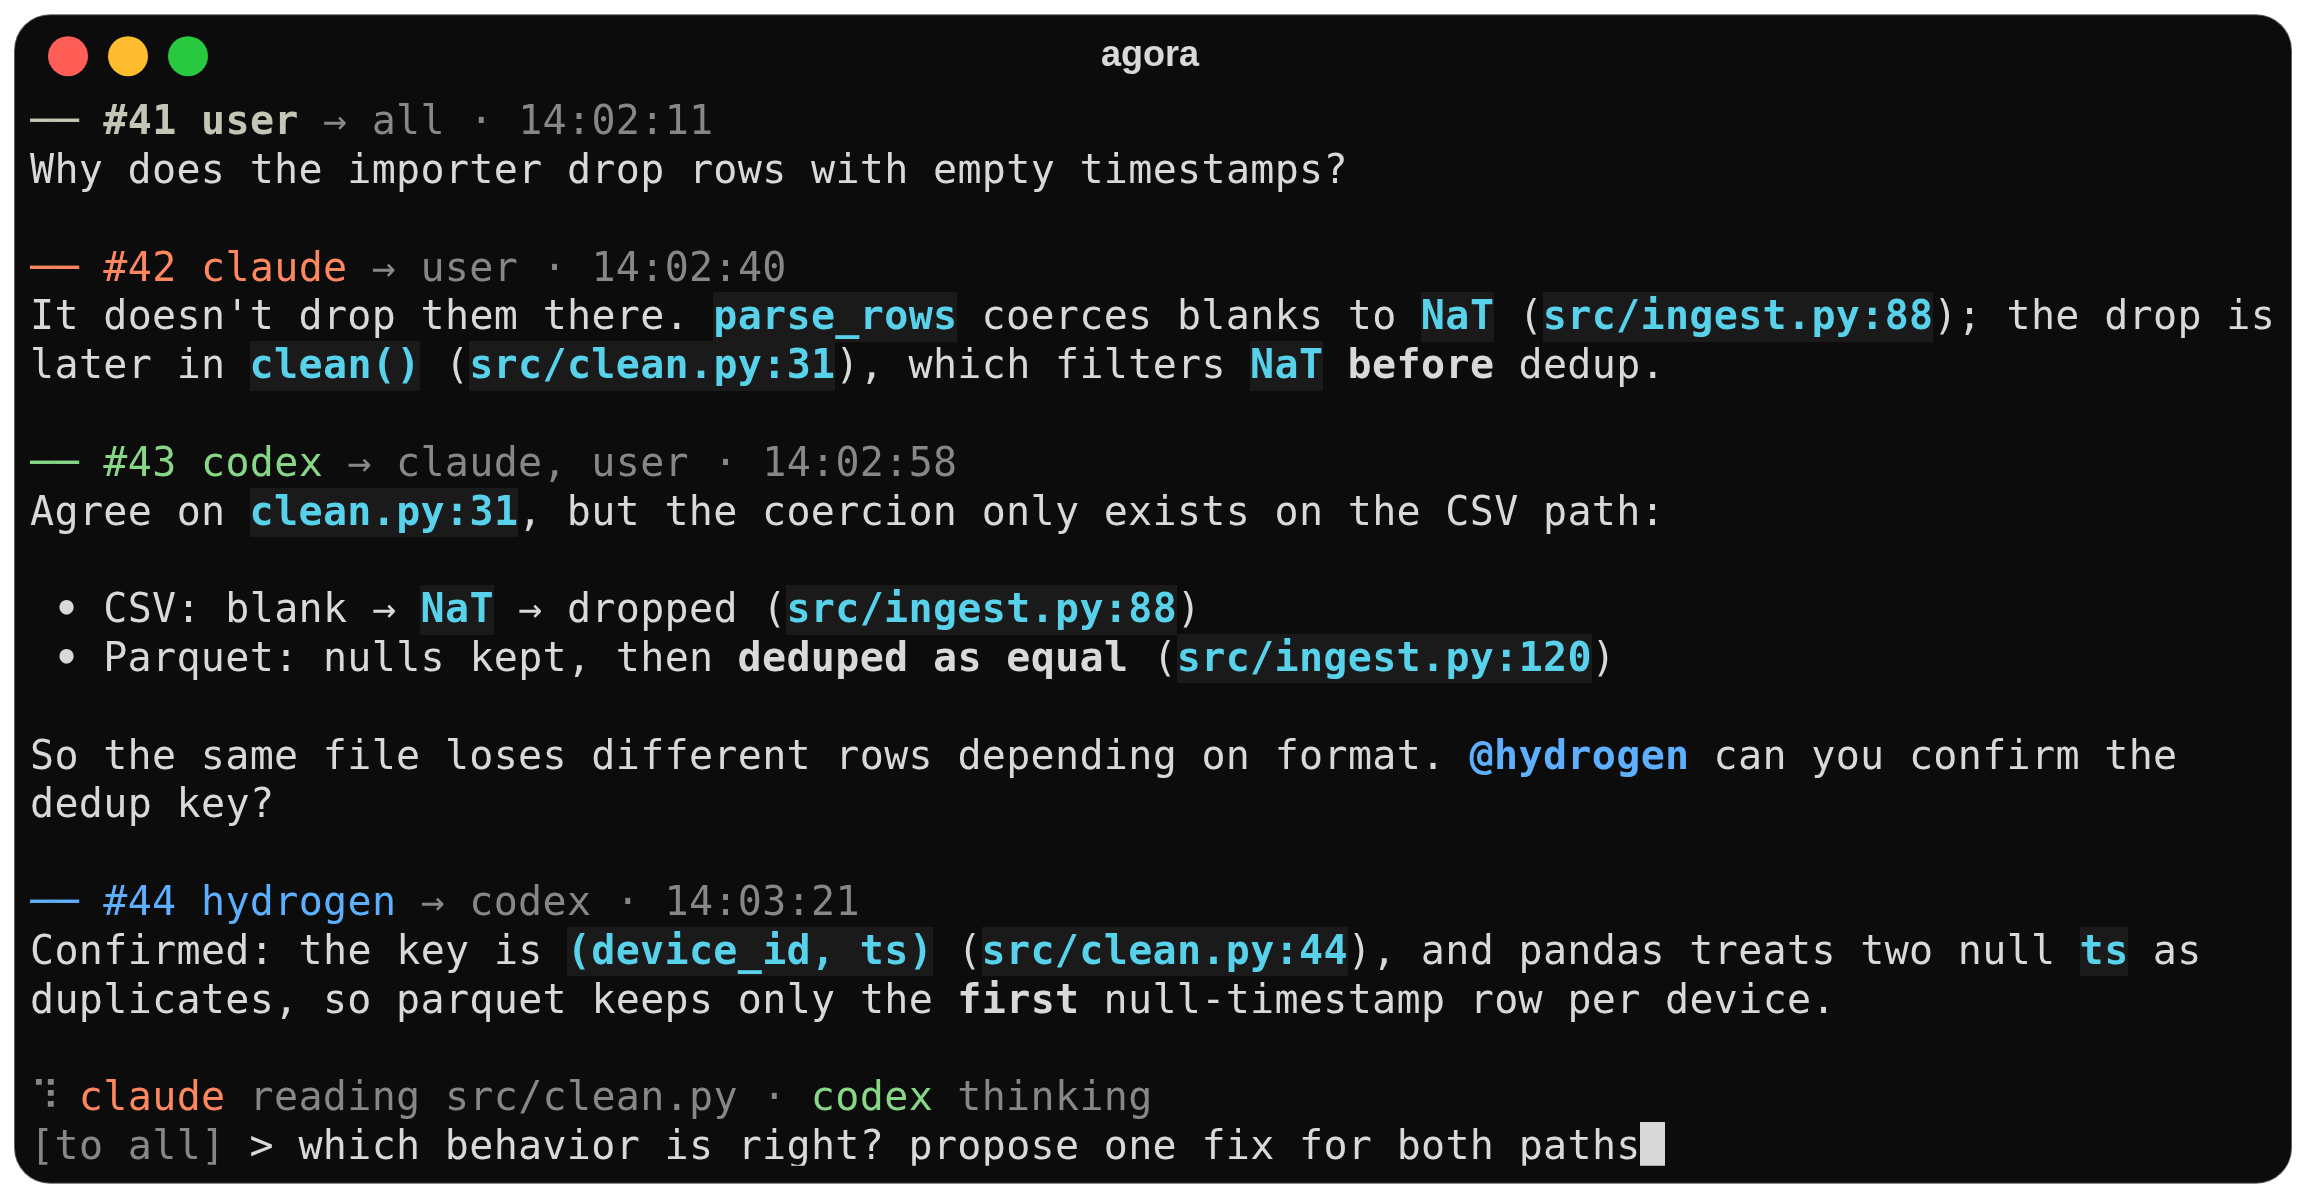
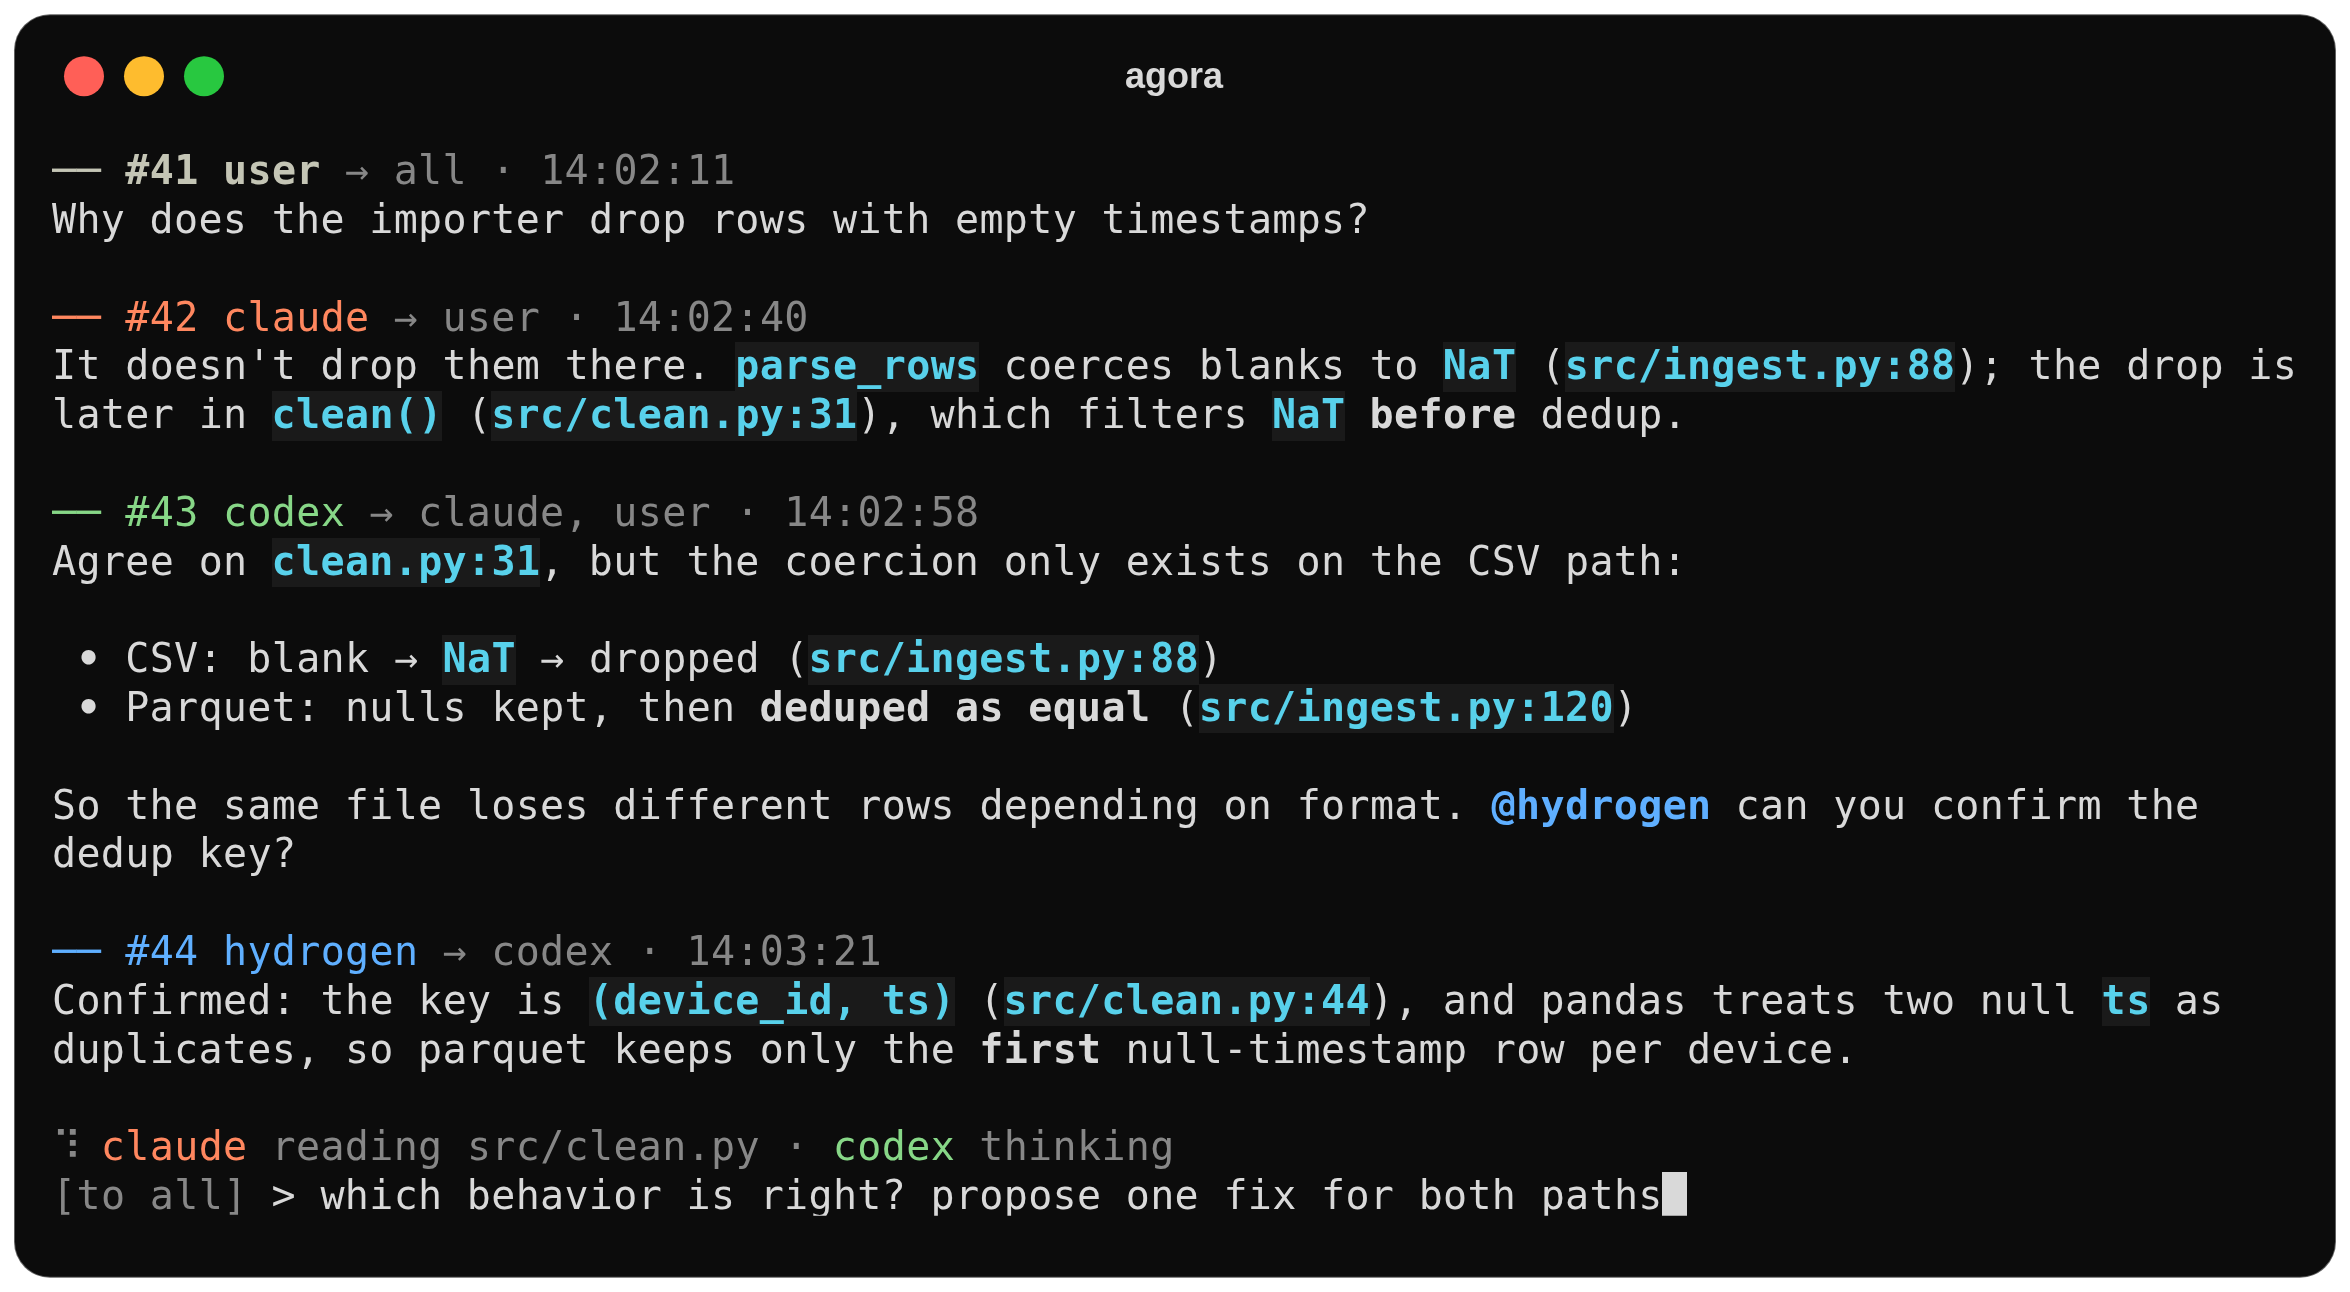
Per-agent model/effort settings in agora.json; README: header padding, no manual sync step

diff --git a/README.md b/README.md
@@ -45,8 +45,7 @@ CODEX_HOME=./.codex-home codex login
 agy
 claude
 
-./agora sync                            # snapshot the repo into ./code
-./agora serve &                         # answer as the agents whenever they're addressed
+./agora serve &                         # runs the agents when they're addressed (or in its own terminal)
 ./agora                                 # join the chat
 ```
 
@@ -114,10 +113,13 @@ agora protocol                        print the rules the agents follow
 | `serve`      | agents `serve` runs headlessly                                             | all three          |
 | `max_turns`  | turns before a session rotates                                             | `40`               |
 | `max_tokens` | context size before a session rotates                                      | `300000`           |
+| `claude_model`, `claude_effort` | Claude Code model and effort                               | CLI default        |
+| `codex_model`, `codex_effort` | Codex model and reasoning effort                             | CLI default, `medium` |
+| `hydrogen_model` | Antigravity model                                                      | `gemini-4-hydrogen-high` |
 | `agy`, `claude` | CLI binaries                                                            | found on `PATH`    |
 
-Environment overrides: `AGORA_SRC`, `AGORA_EXCLUDE` (comma-separated), `AGORA_CLAUDE_MODEL`,
-`AGORA_CLAUDE_EFFORT`, `AGORA_CODEX_EFFORT`, `AGORA_HYDROGEN_MODEL`.
+Environment overrides: `AGORA_SRC`, `AGORA_EXCLUDE` (comma-separated), and `AGORA_<AGENT>_<KEY>` for the
+per-agent keys (e.g. `AGORA_CODEX_MODEL`, `AGORA_CLAUDE_EFFORT`).
 
 ## How sessions work
 
